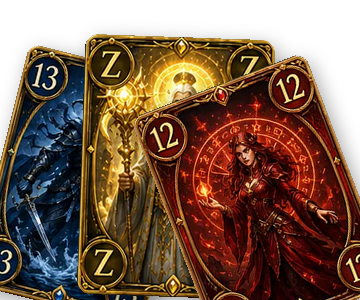
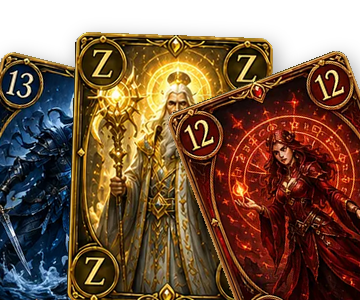
Deck-Kacheln: Kartenpositionen randfuellend wie Standard
Elemente- und Mythos-Kachel neu gesetzt: Randkarten ragen jetzt wie bei
deck-standard.png ueber die Bildkanten hinaus (links unten bzw. rechts
angeschnitten), der Zauberer sitzt gross und dominant in der Mitte, die
rote 12 ganz vorne rechts. Vorher sass der Faecher zu mittig mit Luft
an den Seiten. cat-img ?v=5, app v123.

Claude-Session: https://claude.ai/code/session_01MGnrpYm1rjF2AQZegA46XA

diff --git a/app.js b/app.js
@@ -763,7 +763,7 @@ function shopCatalogTile(it, owned) {
     state = `<span class="tile-state owned">✓ Im Besitz</span>`;
   }
 
-  const thumb = `<img class="cat-img" src="${esc(it.img)}?v=4" alt="" loading="lazy">`;
+  const thumb = `<img class="cat-img" src="${esc(it.img)}?v=5" alt="" loading="lazy">`;
   return `<div class="cat-tile${active ? ' is-active' : ''}" data-kind="${esc(it.kind)}" data-rar="${esc(it.rarity)}" style="--r:${r.color}">
     <div class="cat-thumb">${thumb}</div>
     <div class="cat-name">${esc(it.name)}</div>

diff --git a/index.html b/index.html
@@ -2001,6 +2001,6 @@
   window.addEventListener('pagehide', () => { dropFocus(); armInputs(); });
   window.addEventListener('pageshow', () => { dropFocus(); window.scrollTo(0, 0); });
 </script>
-<script type="module" src="./app.js?v=122"></script>
+<script type="module" src="./app.js?v=123"></script>
 </body>
 </html>
